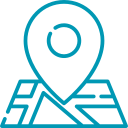
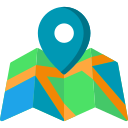
chore | se agregaron paginas extra y se experimenta con mapas

diff --git a/ubicacion.html b/ubicacion.html
@@ -46,9 +46,9 @@
             </div>
 
             <nav class="navegacion-barra">
-                <a class="activo" href="index.html">Inicio</a>
+                <a href="index.html">Inicio</a>
                 <a href="tratamientos.html">Tratamientos</a>
-                <a href="ubicacion.html">Ubicación y contacto</a>
+                <a class="activo" href="ubicacion.html">Ubicación y contacto</a>
                 <div class="nada">
                     
 
@@ -124,33 +124,29 @@
 <main class="main">
     
     <section>
-        <h3>Conocenos</h3>
-    </section>
+        <h3>Ubicación y contacto</h3>
 
-<section class="grid"> <!-- Inicio de GRID -->
-    <article class="contenedor">
-        <!-- icono quienes somos -->
-        <div class="icono_contenedor"><img class="icono" src="./img/quienes.png"></div>
-        <h4>Quiénes somos</h4>
+
+
+
+</section>
+<section class="grid__ubicacion"> <!-- Inicio de GRID -->
+    <article class="contenedor__ubicacion">
+        <div class="icono_contenedor"><img class="icono" src="./img/mapa.png"></div>
+        <h4>Ubicación</h4>
+        <p>En Núcleo dental somos un grupo de odontólogos dispuestos al diagnóstico, tratamiento y prevención de las
+            enfermedades que afectan al Aparato Estomatognático de la manera más amable y responsable, siempre buscando
+            éxito de cada tratamiento y sobre todo la satisfacción del paciente.</p>
+        <iframe class="googlemap" src="https://www.google.com/maps/embed?pb=!1m14!1m8!1m3!1d3732.6218183881774!2d-103.3807526!3d20.6849594!3m2!1i1024!2i768!4f13.1!3m3!1m2!1s0x8428ae153f69a8ab%3A0x6206ba4f047d9e38!2sCentro%20L%C3%B3pez%20Mateos!5e0!3m2!1ses!2smx!4v1668391426546!5m2!1ses!2smx" allowfullscreen="" loading="lazy" referrerpolicy="no-referrer-when-downgrade"></iframe>  
+    </article>
+    
+    <article class="contenedor__ubicacion">
+        <div class="icono_contenedor"><img class="icono" src="./img/bubble-chat.png"></div>
+        <h4>Contáctanos</h4>
         <p>En Núcleo dental somos un grupo de odontólogos dispuestos al diagnóstico, tratamiento y prevención de las
             enfermedades que afectan al Aparato Estomatognático de la manera más amable y responsable, siempre buscando
             éxito de cada tratamiento y sobre todo la satisfacción del paciente.</p>
     </article>
-    <!-- Conoce nuestros tratamientos -->
-    <article class="contenedor">
-        <div class="icono_contenedor"><img class="icono" src="./img/chair.png"></div>
-        <h4>Conoce nuestros tratamientos</h4>
-        <p>Nos especializamos en... Lorem ipsum, dolor sit amet consectetur adipisicing elit. Obcaecati eligendi ut non
-            harum incidunt ducimus consectetur suscipit beatae quia deleniti distinctio ipsum quas vel in, perferendis
-            tempora magnam corrupti nulla.</p>
-    </article>
-    <!-- contactanos -->
-    <article class="contenedor">
-        <div class="icono_contenedor"><img class="icono" src="./img/bubble-chat.png"></div>
-        <h4>Contactanos</h4>
-        <p>Encuentra toda la informacion para ponerte en contacto con nosotros.</p>
-    </article>
-</section>
 
 </main>
 <footer>

diff --git a/css/styles.css b/css/styles.css
@@ -24,8 +24,7 @@ html {
 }
 
 body {
-    font-size: 16px;
-    /* Final 1 rem = 10px */
+    font-size: 1.6rem;
     background-color: var(--blanco);
     font-family: var(--texto);
 }
@@ -35,14 +34,18 @@ p {
     font-size: 2rem;
 }
 
-h3 {
-    font-size: 3rem;
+h3, h4 {
     font-weight: bold;
+    text-align: center;
+    color: var(--nucleoClaro);
+}
+
+h3 {
+    font-size: 6rem;
 }
 
 h4 {
-    font-size: 2.5rem;
-    font-weight: bold;
+    font-size: 3.5rem;
 }
 /* final 1 rem = 10px */
 /* //////////////////////////////////////////////////////////////// */
@@ -134,8 +137,8 @@ h1 a {
     font-family: var(--titulo), sans-serif;
     font-size: 2.5rem;
     background-color: var(--nucleoClaro);
-    
 }
+
 
 @media (max-width: 1440px) {
     .navegacion-barra a {
@@ -162,10 +165,11 @@ h1 a {
         border-bottom: 1px solid var(--nucleoOscuro);
     }
 }
-
+.activo, 
 .navegacion-barra a:hover {
-    background-color: var(--nucleoOscuro);
+    background-color: var(--nucleoOscuro)!important;
 }
+
 
 
 .navegacion_menu {
@@ -388,6 +392,7 @@ h1 a {
 /* Final portada */
 /* //////////////////////////////////////////////////////////////// */
 /* Incio GRID */
+/* INDEX */
 .contenedor {
     box-shadow: 0px 0px 10px 3px rgb(0 0 0 / 50%);
     padding: 1rem;
@@ -414,10 +419,36 @@ h1 a {
         grid: 1fr / 1fr;
     }
 }
+/* final INDEX */
+/* UBICACION */
+.grid__ubicacion {
+    display: grid;
+    grid: 1fr / 1fr 1fr;
+    gap: 2rem;
+}
 
+@media (max-width: 920px) {
+    .grid__ubicacion {
+        grid: 1fr / 1fr;
+        }
+}
 
+.contenedor__ubicacion {
+    padding: 1rem;
+    background-color: var(--blanco);
+    width: 100%;
+    height: 100%;
+}
+
+.googlemap {
+    width: 90%;
+    height: 50rem;
+    border: 5px outset var(--azulClaro);
+}
 
 /* Final GRID */
+
+
 
 /* Inicio iconos */
 
@@ -442,20 +473,8 @@ footer {
     text-align: center;
     background-color: var(--nucleoClaro);
     color: var(--blanco);
-/*     display: grid;
-    grid-template-columns: 1fr 1fr; */
 }
 
-/* footer .red_social {
-    height: 3rem;
-    margin: 0rem;
-    padding: 0rem;
-}
-
-footer  a:nth-child(2),
-footer  a:nth-child(3) {
-text-decoration: none;
-} */
 
 footer a {
     color: var(--blanco);

diff --git a/tratamientos.html b/tratamientos.html
@@ -46,8 +46,8 @@
             </div>
 
             <nav class="navegacion-barra">
-                <a class="activo" href="index.html">Inicio</a>
-                <a href="tratamientos.html">Tratamientos</a>
+                <a href="index.html">Inicio</a>
+                <a class="activo" href="tratamientos.html">Tratamientos</a>
                 <a href="ubicacion.html">Ubicación y contacto</a>
                 <div class="nada">
                     
